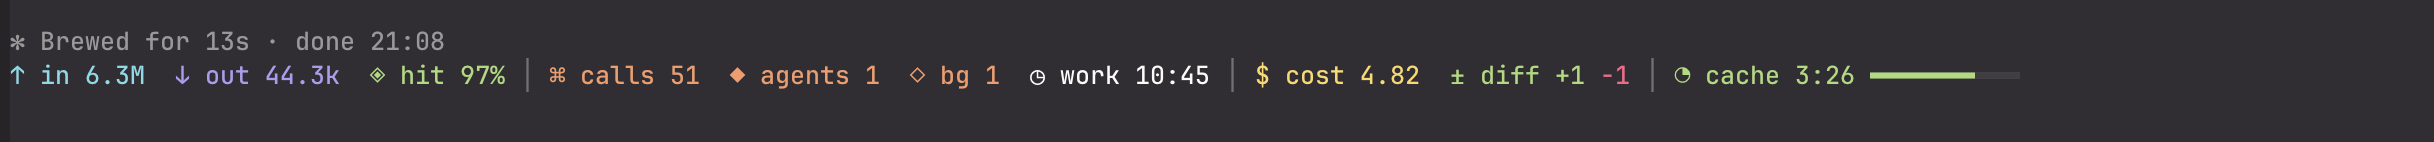
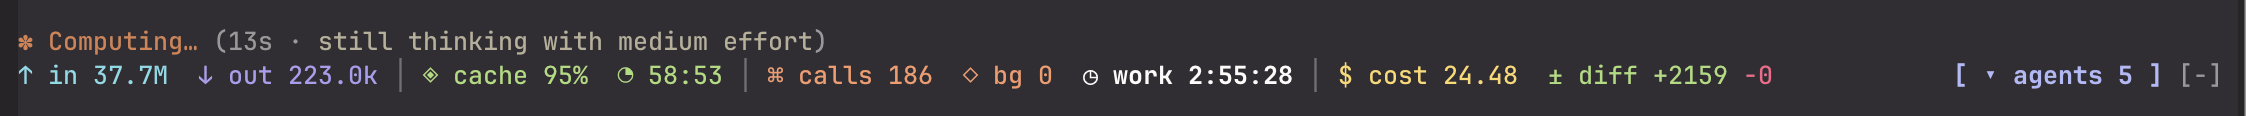
fix(flight-deck): keep the cause data of a cache break with its session and its step
From a second code review of the branch:

- The context blocks are read when a main step starts, as the sections
  are: a context of another loop during the step is not of that step.
- The sections, the context and the compaction are of one session. A
  compaction of one session is no cause of a break of another.
- The request of a main step does not wait for the tool list.
- A tool that the step before listed stays listed with no tool.describe
  result (after a hot reload, with tool search off).
- Each of the four hooks has its record in a try block.
- "1 earlier break not shown" in the singular.
- parseSnapshot parses the last prompt one time; one writeOf for the
  cache write price.

Changed region(s): [[0.0, 0.2069, 0.8103, 0.7241], [0.8727, 0.0, 1.0, 1.0]]

diff --git a/mods/flight-deck/hooks/register.tsx b/mods/flight-deck/hooks/register.tsx
@@ -282,14 +282,27 @@ let missedTurns = 0
 
 // What the mod knows of the next request of the main loop, for the cause of a cache break.
 // Kept here, not in state: no drawing reads it, and the session record gets it with a step.
-// The sections of the last render of the system prompt that sends a request.
-let pendingSections: Record<string, string> | null = null
-// The blocks of the first user message, as the engine last computed them.
-let contextHashes: Record<string, string> | null = null
+// `sections` is the last render of the system prompt that sends a request, `context` the
+// blocks of the first user message as the engine last computed them, and `compaction` the
+// compaction of the main loop that came after its last step. They are of one session:
+// `session.start` does not fire on `/clear` or on a resume in the process.
+type Seen = {
+  sessionId: string | null
+  sections: Record<string, string> | null
+  context: Record<string, string> | null
+  compaction: Compaction | null
+}
+let seen: Seen = { sessionId: null, sections: null, context: null, compaction: null }
 // Whether each tool is deferred, by the `tool.describe` results of this process.
 const deferral = new Map<string, boolean>()
-// The compaction of the main loop that came after its last step.
-let compaction: Compaction | null = null
+
+// What the hooks saw for the current session: the values of another session are dropped.
+async function seenOf($: Api): Promise<Seen> {
+  const id = await $.session.id()
+  if (seen.sessionId !== id)
+    seen = { sessionId: id, sections: null, context: null, compaction: null }
+  return seen
+}
 
 // Keeps the breakdown of a usage reply as the context sample of the session `id`, and says
 // if it did: a reply with no breakdown or no window is no sample, and it changes nothing.
@@ -914,9 +927,11 @@ export const register: Register = (on, options) => {
   on('turn.step', async function* ($, e, next) {
     // The cache is refreshed when the request is processed, not when the response ends.
     const sentAt = await $.clock.now()
-    // The sections of the prompt that this request carries: read before the request goes out.
-    // A prompt that another loop renders while the step streams is not the prompt of the step.
-    const sections = e.index === 0 && e.agentId === undefined ? pendingSections : null
+    // What this request of the main loop carries: read before the request goes out. A prompt
+    // or a context of another loop that comes while the step streams is not of this step.
+    const mine = e.agentId === undefined ? await seenOf($) : null
+    const sections = mine !== null && e.index === 0 ? mine.sections : null
+    const context = mine?.context ?? null
     stepsInFlight++
     // A run of an agent has no start event: its first step opens its working time.
     const runner = e.agentId
@@ -926,13 +941,20 @@ export const register: Register = (on, options) => {
       startTimer($, (await read($, ttlsAtom)) ?? cacheTtls({}, options.cacheTtl))
     }
     // The listed tools of this request: a main step compares them with those of the step
-    // before it. A list that fails gives no tools part.
-    const tools = e.agentId === undefined ? await $.tool.list().catch(() => null) : null
+    // before it. The request does not wait for the list, and a list that fails gives no tools
+    // part.
+    const listing =
+      e.agentId === undefined
+        ? Promise.resolve()
+            .then(() => $.tool.list())
+            .catch(() => null)
+        : null
     try {
       // The agent runs from the start of its step. The end of a step does not say so: the end
       // of a stopped step can come after the end of the run.
       if (runner !== undefined) await markAgent($, runner)
       const res = yield* next(e)
+      const tools = listing === null ? null : await listing
       const id = await ensureLoaded($)
       await stamp($)
       // Subagents (agentId set) have their own caches: count their tokens but do not
@@ -946,8 +968,8 @@ export const register: Register = (on, options) => {
       const stepCost = costOf(e.model, stepTotals, isMain ? ttls.main : ttls.agent, true)
       // A main step with a usage: is it a cache break? The compaction is read one time.
       const usage = res.usage
-      const squeezed = compaction
-      if (isMain && usage !== null) compaction = null
+      const squeezed = mine?.compaction ?? null
+      if (mine !== null && usage !== null) mine.compaction = null
       const advisorModel = settings.advisorModel
       // Compute inside the updater: concurrent events must not overwrite each other.
       const nextMeter = await update($, meter, (c) => ({
@@ -967,7 +989,15 @@ export const register: Register = (on, options) => {
         engineGap: (c.engineGap ?? 0) + engineGap(e.model, stepTotals),
         ...(isMain && usage !== null
           ? (() => {
-              const listed = tools === null ? null : listedTools(tools, deferral, c.deferred ?? [])
+              const listed =
+                tools === null
+                  ? null
+                  : listedTools(
+                      tools,
+                      deferral,
+                      c.deferred ?? [],
+                      Object.keys(c.lastPrompt?.fingerprint.tools ?? {}),
+                    )
               return {
                 ...withStep(
                   c,
@@ -980,7 +1010,7 @@ export const register: Register = (on, options) => {
                     at: sentAt,
                     fingerprint: {
                       ...(sections === null ? {} : { sections }),
-                      ...(contextHashes === null ? {} : { context: contextHashes }),
+                      ...(context === null ? {} : { context }),
                       ...(listed === null ? {} : { tools: listed.tools }),
                     },
                   },
@@ -1040,21 +1070,21 @@ export const register: Register = (on, options) => {
 
   // The system prompt of the next request. A render that measures the prompt sends nothing,
   // and a teammate renders the prompt of its lead.
-  on('prompt.compose', async (_$, e, next) => {
+  on('prompt.compose', async ($, e, next) => {
     const res = await next(e)
     try {
       if (!e.traits.includes('analysis') && !e.traits.includes('teammate'))
-        pendingSections = hashes(res.sections.map((s) => ({ name: s.id, text: s.text })))
+        (await seenOf($)).sections = hashes(res.sections.map((s) => ({ name: s.id, text: s.text })))
     } catch {
       // The next render gives the sections.
     }
     return res
   })
 
-  on('prompt.context', async (_$, e, next) => {
+  on('prompt.context', async ($, e, next) => {
     const res = await next(e)
     try {
-      contextHashes = hashes(res.blocks)
+      ;(await seenOf($)).context = hashes(res.blocks)
     } catch {
       // The next read gives the blocks.
     }
@@ -1063,19 +1093,27 @@ export const register: Register = (on, options) => {
 
   on('tool.describe', async (_$, e, next) => {
     const res = await next(e)
-    deferral.set(e.tool, (res.isDeferred ?? e.isDeferred) === true)
+    try {
+      deferral.set(e.tool, (res.isDeferred ?? e.isDeferred) === true)
+    } catch {
+      // The rule for a tool with no result applies.
+    }
     return res
   })
 
   // A precompute installs nothing. A compaction of a subagent is not of the main loop.
-  on('session.compact', async (_$, e, next) => {
+  on('session.compact', async ($, e, next) => {
     const res = await next(e)
-    if (e.trigger !== 'precompute' && e.agentId === undefined && res.skip === undefined)
-      compaction = {
-        trigger: e.trigger,
-        ...(res.tokensBefore === undefined ? {} : { before: res.tokensBefore }),
-        ...(res.tokensAfter === undefined ? {} : { after: res.tokensAfter }),
-      }
+    try {
+      if (e.trigger !== 'precompute' && e.agentId === undefined && res.skip === undefined)
+        (await seenOf($)).compaction = {
+          trigger: e.trigger,
+          ...(res.tokensBefore === undefined ? {} : { before: res.tokensBefore }),
+          ...(res.tokensAfter === undefined ? {} : { after: res.tokensAfter }),
+        }
+    } catch {
+      // The break after this compaction then gets another cause.
+    }
     return res
   })
 

diff --git a/mods/flight-deck/hooks/register.test.ts b/mods/flight-deck/hooks/register.test.ts
@@ -3259,3 +3259,68 @@ test('the cache row, its rule and the cache screen follow the rules of each surf
   expect((await terminal.find({ key: 'cache:head' }))?.type).not.toBe('Client')
   await terminal.unmount()
 })
+
+// A step that waits at a gate: `entered` resolves when the step is in flight, `release` lets
+// it answer.
+const stepGate = () => {
+  let enter: () => void = () => {}
+  let release: () => void = () => {}
+  const entered = new Promise<void>((r) => {
+    enter = r
+  })
+  const gate = new Promise<void>((r) => {
+    release = r
+  })
+  duringStep = async () => {
+    enter()
+    await gate
+  }
+  return { entered, release: () => release() }
+}
+
+test('a context that the engine computes during a step is not the context of that step', async ($, on) => {
+  const clock = breakEngine(on)
+  let claudeMd = 'one'
+  on('prompt.context', () => ({ blocks: [{ name: 'claudeMd', text: claudeMd }] }))
+  const compute = () => $.prompt.context({ blocks: [] } as never)
+  await compute()
+  const { entered, release } = stepGate()
+  const running = mainStep($, 0, 50_000)
+  await entered
+  // The context of another conversation: the event has no agent id.
+  claudeMd = 'subagent'
+  await compute()
+  claudeMd = 'one'
+  release()
+  await running
+  duringStep = null
+  await compute()
+  await mainStep($, 0, 50_100, { turnId: 't2' })
+  expect(await settled($, clock)).toContain('✗ unknown')
+})
+
+test('a compaction of one session is not the cause of a break of another session', async ($, on) => {
+  let id = 'S2'
+  const clock = breakEngine(on, () => id)
+  const KEPT = [{ role: 'user', text: 'summary', toolUses: [] }] as never
+  on('session.compact', () => ({ messages: KEPT, tokensBefore: 171_000, tokensAfter: 38_000 }))
+  await mainStep($, 0, 50_000)
+  id = 'S1'
+  await mainStep($, 0, 50_000)
+  await $.session.compact({ trigger: 'auto', messages: KEPT } as never)
+  // The person goes back to the other session, with another model.
+  id = 'S2'
+  await mainStep($, 0, 50_100, { model: 'claude-sonnet-5-5' })
+  expect(await settled($, clock)).toContain('✗ model')
+})
+
+test('the cache screen names one older break in the singular', async ($, on) => {
+  breakEngine(on)
+  await mainStep($, 0, 50_000)
+  for (let i = 0; i < 51; i++)
+    await mainStep($, 0, 50_000, { model: i % 2 === 0 ? 'claude-sonnet-5-5' : 'claude-opus-5-5' })
+  const ui = await mountPane($, 'terminal')
+  await ui.press({ key: 'cache' })
+  expect(await paneText(ui)).toContain('1 earlier break not shown')
+  await ui.unmount()
+})

diff --git a/mods/flight-deck/src/breaks.test.ts b/mods/flight-deck/src/breaks.test.ts
@@ -58,7 +58,7 @@ test('listedTools leaves out the deferred tools', () => {
     ['NotebookEdit', true],
     ['mcp__a__c', false],
   ])
-  const res = listedTools(list, known, ['WebFetch'])
+  const res = listedTools(list, known, ['WebFetch'], [])
   expect(Object.keys(res.tools).sort()).toEqual(['Read', 'mcp__a__c'])
   expect(res.tools.Read).toBe(hashOf('reads'))
   expect(res.deferred.sort()).toEqual(['NotebookEdit', 'WebFetch', 'mcp__a__b'])
@@ -245,4 +245,21 @@ test('clockText is the local time of a moment, and causeColor the tone of a caus
   expect(causeColor('compact')).toBe(PALETTE.yellow)
   expect(causeColor('model')).toBe(PALETTE.red)
   expect(causeColor('unknown')).toBe(PALETTE.red)
+})
+
+test('listedTools keeps a tool that the step before listed, with no describe result', () => {
+  // After a hot reload the engine raises no `tool.describe` again. With tool search off, an
+  // MCP tool is a listed tool: the fingerprint of the step before says so.
+  const list = [
+    { name: 'mcp__a__b', description: 'b', mcp: true },
+    { name: 'mcp__a__c', description: 'c', mcp: true },
+  ]
+  const res = listedTools(list, new Map(), [], ['mcp__a__b'])
+  expect(Object.keys(res.tools)).toEqual(['mcp__a__b'])
+  expect(res.deferred).toEqual(['mcp__a__c'])
+  // A stored deferred name stays deferred.
+  expect(listedTools(list, new Map(), ['mcp__a__b'], ['mcp__a__b']).deferred.sort()).toEqual([
+    'mcp__a__b',
+    'mcp__a__c',
+  ])
 })

diff --git a/mods/flight-deck/src/breaks.ts b/mods/flight-deck/src/breaks.ts
@@ -33,15 +33,18 @@ export const hashes = (rows: readonly { name: string; text: string }[]): Record<
 
 // The listed tools of a tool list, each as the hash of its description, and the names of the
 // deferred ones. A deferred tool has no schema in a request, so its change breaks no cache.
-// `known` holds the `tool.describe` results of this process. With no result, a stored name is
-// deferred, and so is an MCP tool: the engine defers those by its rule.
+// `known` holds the `tool.describe` results of this process. With no result (the engine
+// raises none again after a hot reload), a stored name is deferred, and a name that the step
+// before listed is listed. A tool that is in neither is deferred when it is an MCP tool: the
+// engine defers those by its rule.
 export const listedTools = (
   list: readonly { name: string; description: string; mcp: boolean }[],
   known: ReadonlyMap<string, boolean>,
   stored: readonly string[],
+  listedBefore: readonly string[],
 ): { tools: Record<string, string>; deferred: string[] } => {
   const isDeferred = (t: { name: string; mcp: boolean }) =>
-    known.get(t.name) ?? (stored.includes(t.name) || t.mcp)
+    known.get(t.name) ?? (stored.includes(t.name) || (!listedBefore.includes(t.name) && t.mcp))
   return {
     tools: hashes(
       list.filter((t) => !isDeferred(t)).map((t) => ({ name: t.name, text: t.description })),

diff --git a/mods/flight-deck/src/price.ts b/mods/flight-deck/src/price.ts
@@ -92,6 +92,9 @@ const priceOf = (name: string) => {
 // The cache read price of a price row: its own, or a tenth of the input price.
 const readOf = (p: { input: number; read?: number }): number => p.read ?? p.input * 0.1
 
+// The cache write price of a price row, by the lifetime of the cache entry.
+const writeOf = (p: { input: number }, ttl: Ttl): number => p.input * (ttl === '1h' ? 2 : 1.25)
+
 // The rate of a model for one request with a prompt of `prompt` tokens: the long rate above
 // its limit, else the base rate.
 const rateOf = (p: Rate & { long?: Rate & { above: number } }, prompt: number): Rate =>
@@ -123,7 +126,7 @@ export const rewriteCost = (
   const base = priceOf(model)
   if (base === undefined) return null
   const p = rateOf(base, prompt)
-  return (tokens * (p.input * (ttl === '1h' ? 2 : 1.25) - readOf(p))) / 1e6
+  return (tokens * (writeOf(p, ttl) - readOf(p))) / 1e6
 }
 
 // What the dashboard says below the row of a model whose cache read price the engine counts
@@ -151,7 +154,7 @@ export const costOf = (
     (t.input * p.input +
       t.output * p.output +
       t.cacheRead * read +
-      t.cacheWrite * p.input * (ttl === '1h' ? 2 : 1.25)) /
+      t.cacheWrite * writeOf(p, ttl)) /
     1e6
   )
 }

diff --git a/mods/flight-deck/src/snapshot.ts b/mods/flight-deck/src/snapshot.ts
@@ -148,6 +148,7 @@ const parseBreaks = (raw: unknown): BreakEntry[] =>
 export const parseSnapshot = (raw: unknown): Snapshot => {
   if (!isRecord(raw)) return emptySnapshot()
   const r = raw
+  const lastPrompt = parseLastPrompt(r.lastPrompt)
   return {
     totals: parseTotals(r.totals),
     tools: num(r.tools),
@@ -174,9 +175,7 @@ export const parseSnapshot = (raw: unknown): Snapshot => {
       : typeof r.tools === 'number'
         ? [UNKNOWN_CALLS]
         : [],
-    ...(parseLastPrompt(r.lastPrompt) === undefined
-      ? {}
-      : { lastPrompt: parseLastPrompt(r.lastPrompt) as LastPrompt }),
+    ...(lastPrompt === undefined ? {} : { lastPrompt }),
     ...(Array.isArray(r.breaks) ? { breaks: parseBreaks(r.breaks) } : {}),
     ...(isCount(r.breakCount) ? { breakCount: r.breakCount } : {}),
     ...(isCount(r.lostUsd) ? { lostUsd: r.lostUsd } : {}),

diff --git a/mods/flight-deck/src/pane.tsx b/mods/flight-deck/src/pane.tsx
@@ -650,7 +650,10 @@ export const AgentPane = ({
             <Box key="cache:body" flexDirection="column">
               {cell('cache:sum', { ...breaksHead(b), bold: true })}
               {hidden > 0 &&
-                cell('cache:hidden', { text: `${hidden} earlier breaks not shown`, dim: true })}
+                cell('cache:hidden', {
+                  text: `${hidden} earlier ${hidden === 1 ? 'break' : 'breaks'} not shown`,
+                  dim: true,
+                })}
               <Box key="cache:headrow" flexDirection="row" gap={1}>
                 {head('cache:head:time', 'time', CLOCK_WIDTH)}
                 {rest('cache:head:cause', 'cause', causeWidth, { dim: true })}

diff --git a/docs/specs/2026-10-08-flight-deck-cache-break-design.md b/docs/specs/2026-10-08-flight-deck-cache-break-design.md
@@ -69,7 +69,10 @@ The fingerprint has three parts. Each part is a map from a name to a hash of a t
 Rules:
 
 - A `prompt.compose` event with the trait `analysis` or `teammate` gives no sections. The engine sends nothing for an `analysis` render.
-- A tool is deferred when its last `tool.describe` result says so. A tool with no `tool.describe` result is deferred when it is an MCP tool (`mcp` of `ToolInfo`). Section 9 gives the reason.
+- A tool is deferred when its last `tool.describe` result says so. Section 9 gives the reason.
+- A tool with no `tool.describe` result is deferred when the session record has its name as deferred. It is listed when the fingerprint of the step before has it. A tool that is in neither is deferred when it is an MCP tool (`mcp` of `ToolInfo`).
+- A main step takes the sections and the context as they are when the step starts. An event of another loop during the step does not change them.
+- The sections, the context and the compaction are of one session. The mod drops them when the session id changes.
 - The mod keeps the fingerprint of the last main step and the fingerprint of the step before it. A cause compares the two.
 
 ### 4.3 State
@@ -94,7 +97,7 @@ One break entry:
 | `rewritten` | Tokens. |
 | `lostUsd` | The lost cost, or `null` for a model with no price. |
 
-A module variable holds the compaction that came after the last main step: its `trigger` and its two token counts. The next main step reads it and clears it.
+A module variable holds the compaction of the session that came after the last main step: its `trigger` and its two token counts. The next main step of that session reads it and clears it.
 
 ## 5. Calculations
 
@@ -242,7 +245,7 @@ Thus:
 - A changed input schema of a tool, with the same name and description, gives `unknown`.
 - The mod reads the sections at the start of step 0. It thus does not see a system prompt that changes in a turn before the next turn. A break of a later step of that turn can give `unknown`.
 - `prompt.compose` has no agent id. A background agent can raise it between the event of the main loop and the start of step 0 of the main loop. The fingerprint then has the sections of that agent. A render during step 0 changes nothing: the mod reads the sections when the step starts.
-- After a hot reload of the mod, the engine does not raise `tool.describe` again in the session. The stored list of deferred tools and the MCP rule of section 4.2 replace it.
+- After a hot reload of the mod, the engine does not raise `tool.describe` again in the session. The rules of section 4.2 for a tool with no result replace it. A tool that the session gets after the reload then follows the MCP rule only.
 - The spike ran with `claude -p`. No MCP server connected or disconnected in it, and no desktop ran it.
 - The first main step of a session that an earlier version stored has no prefix. Its break is not found.
 - The lost cost is an estimate. It uses the listed prices, as each cost of the dashboard.
